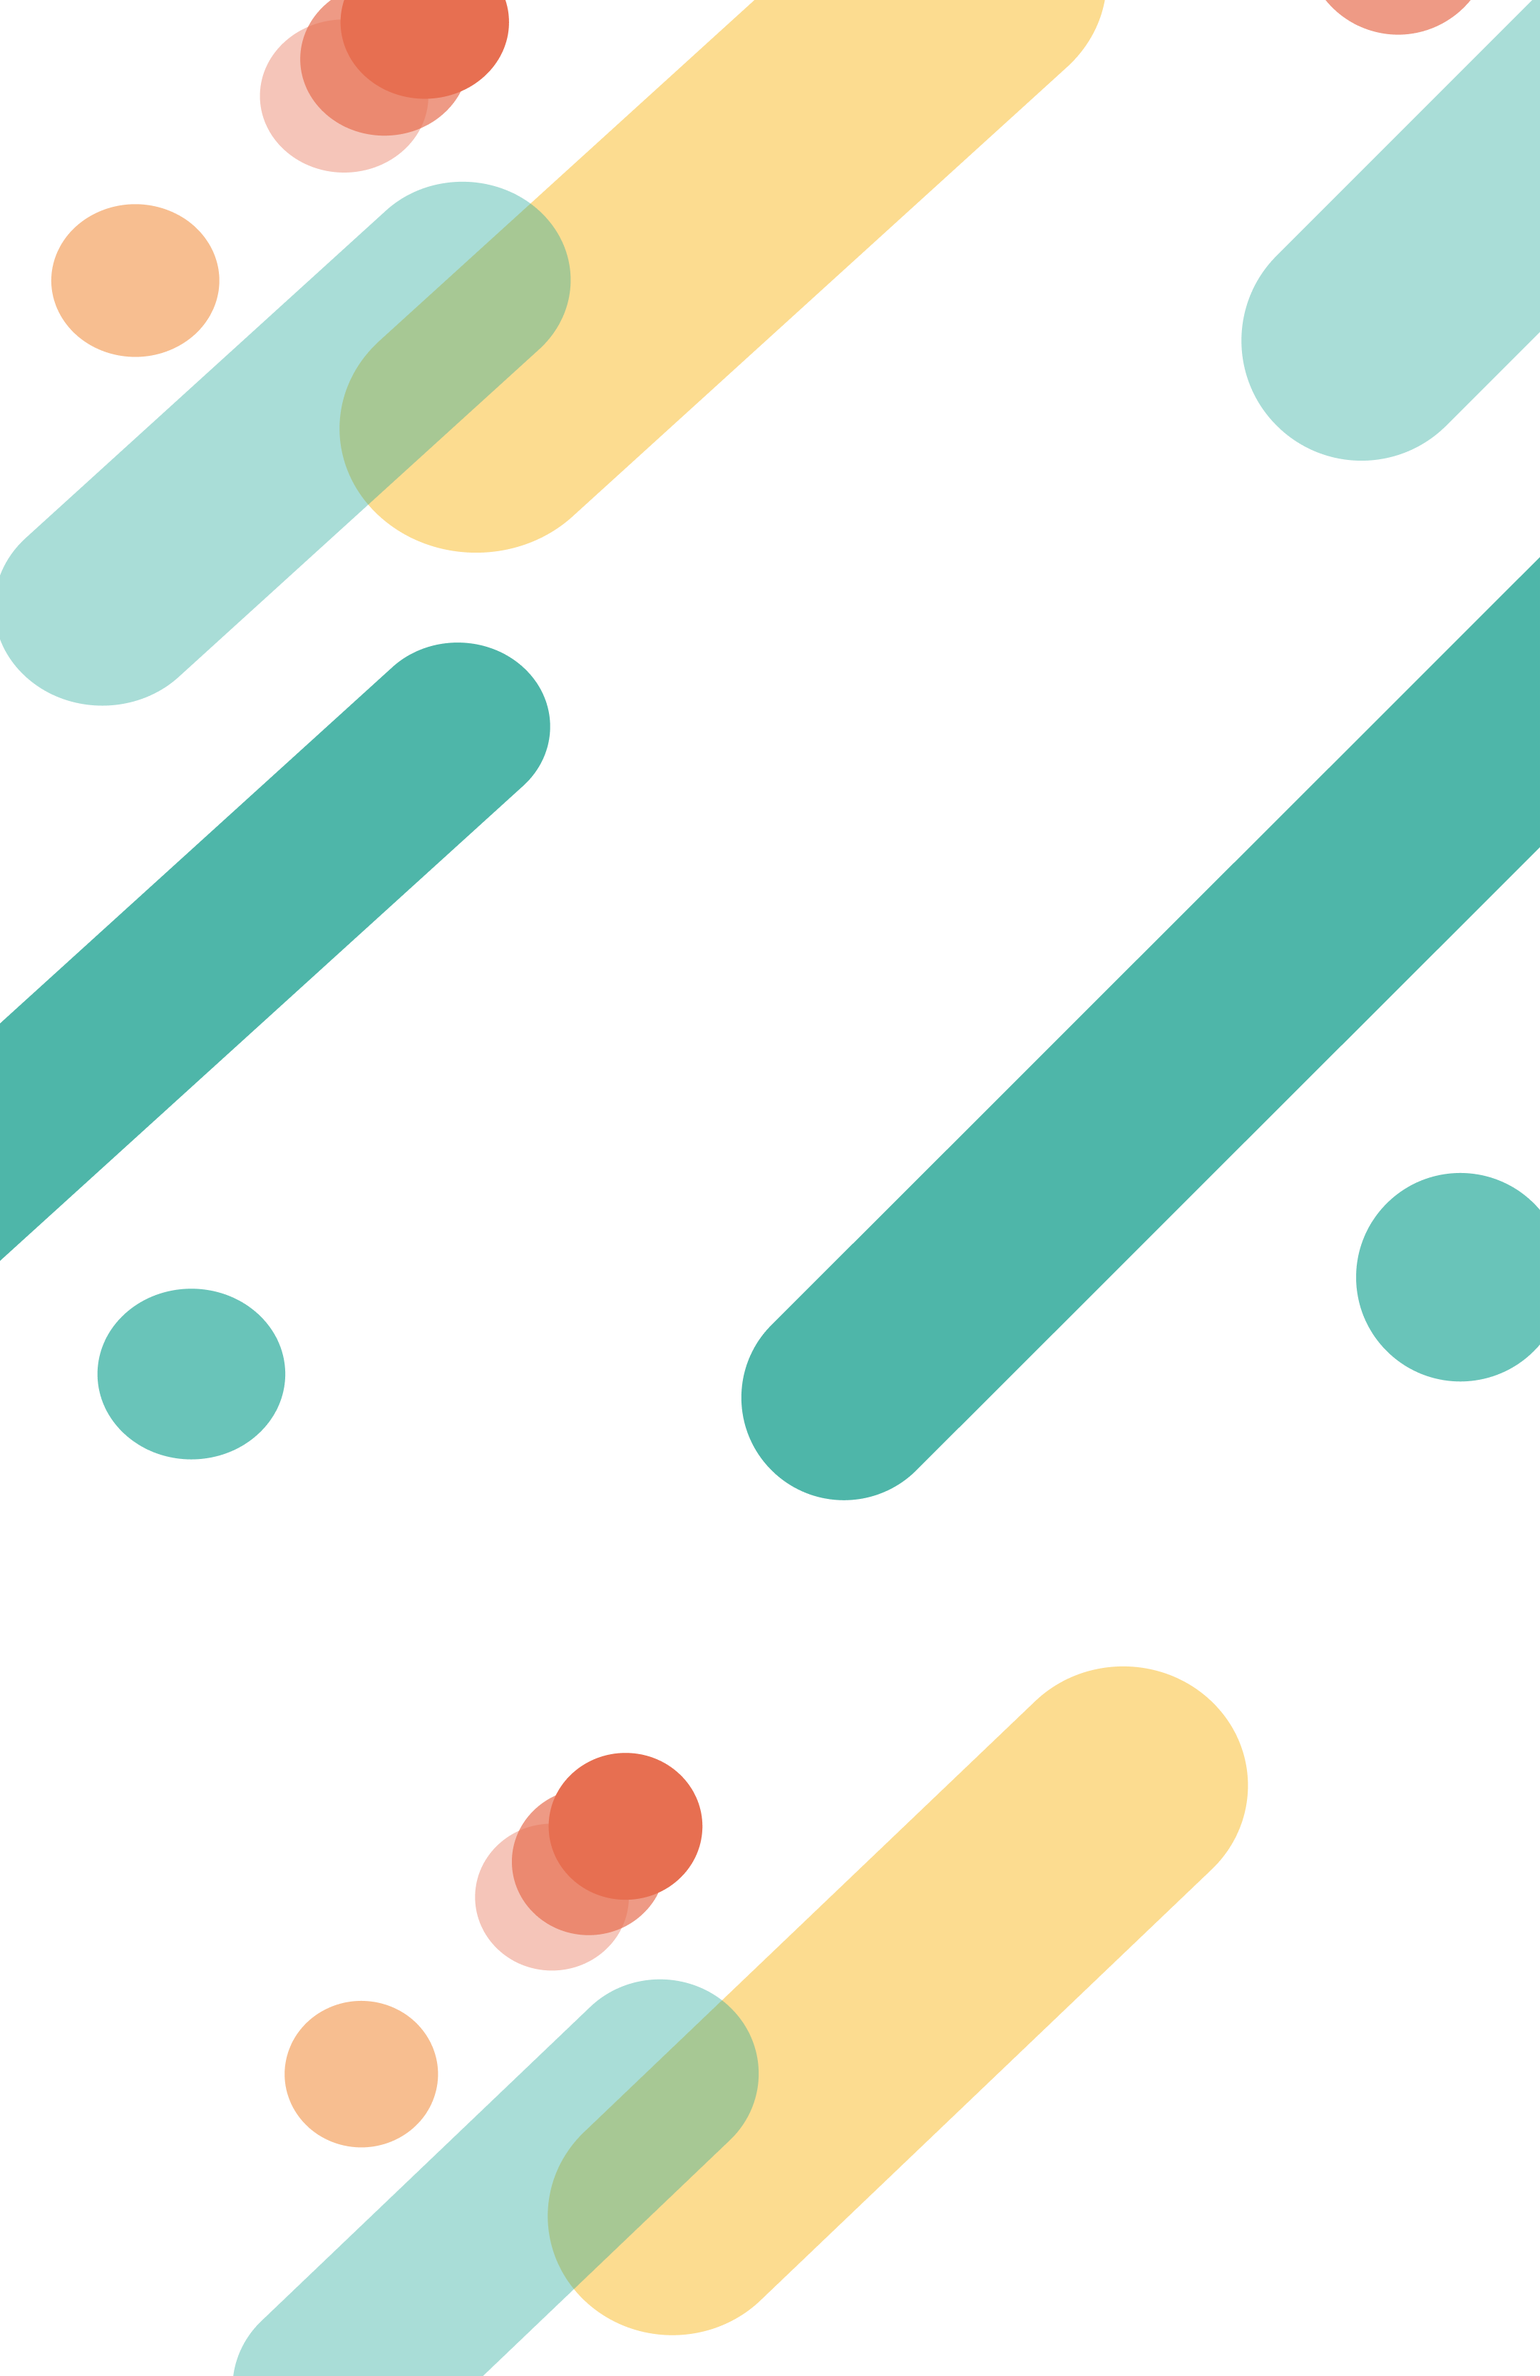
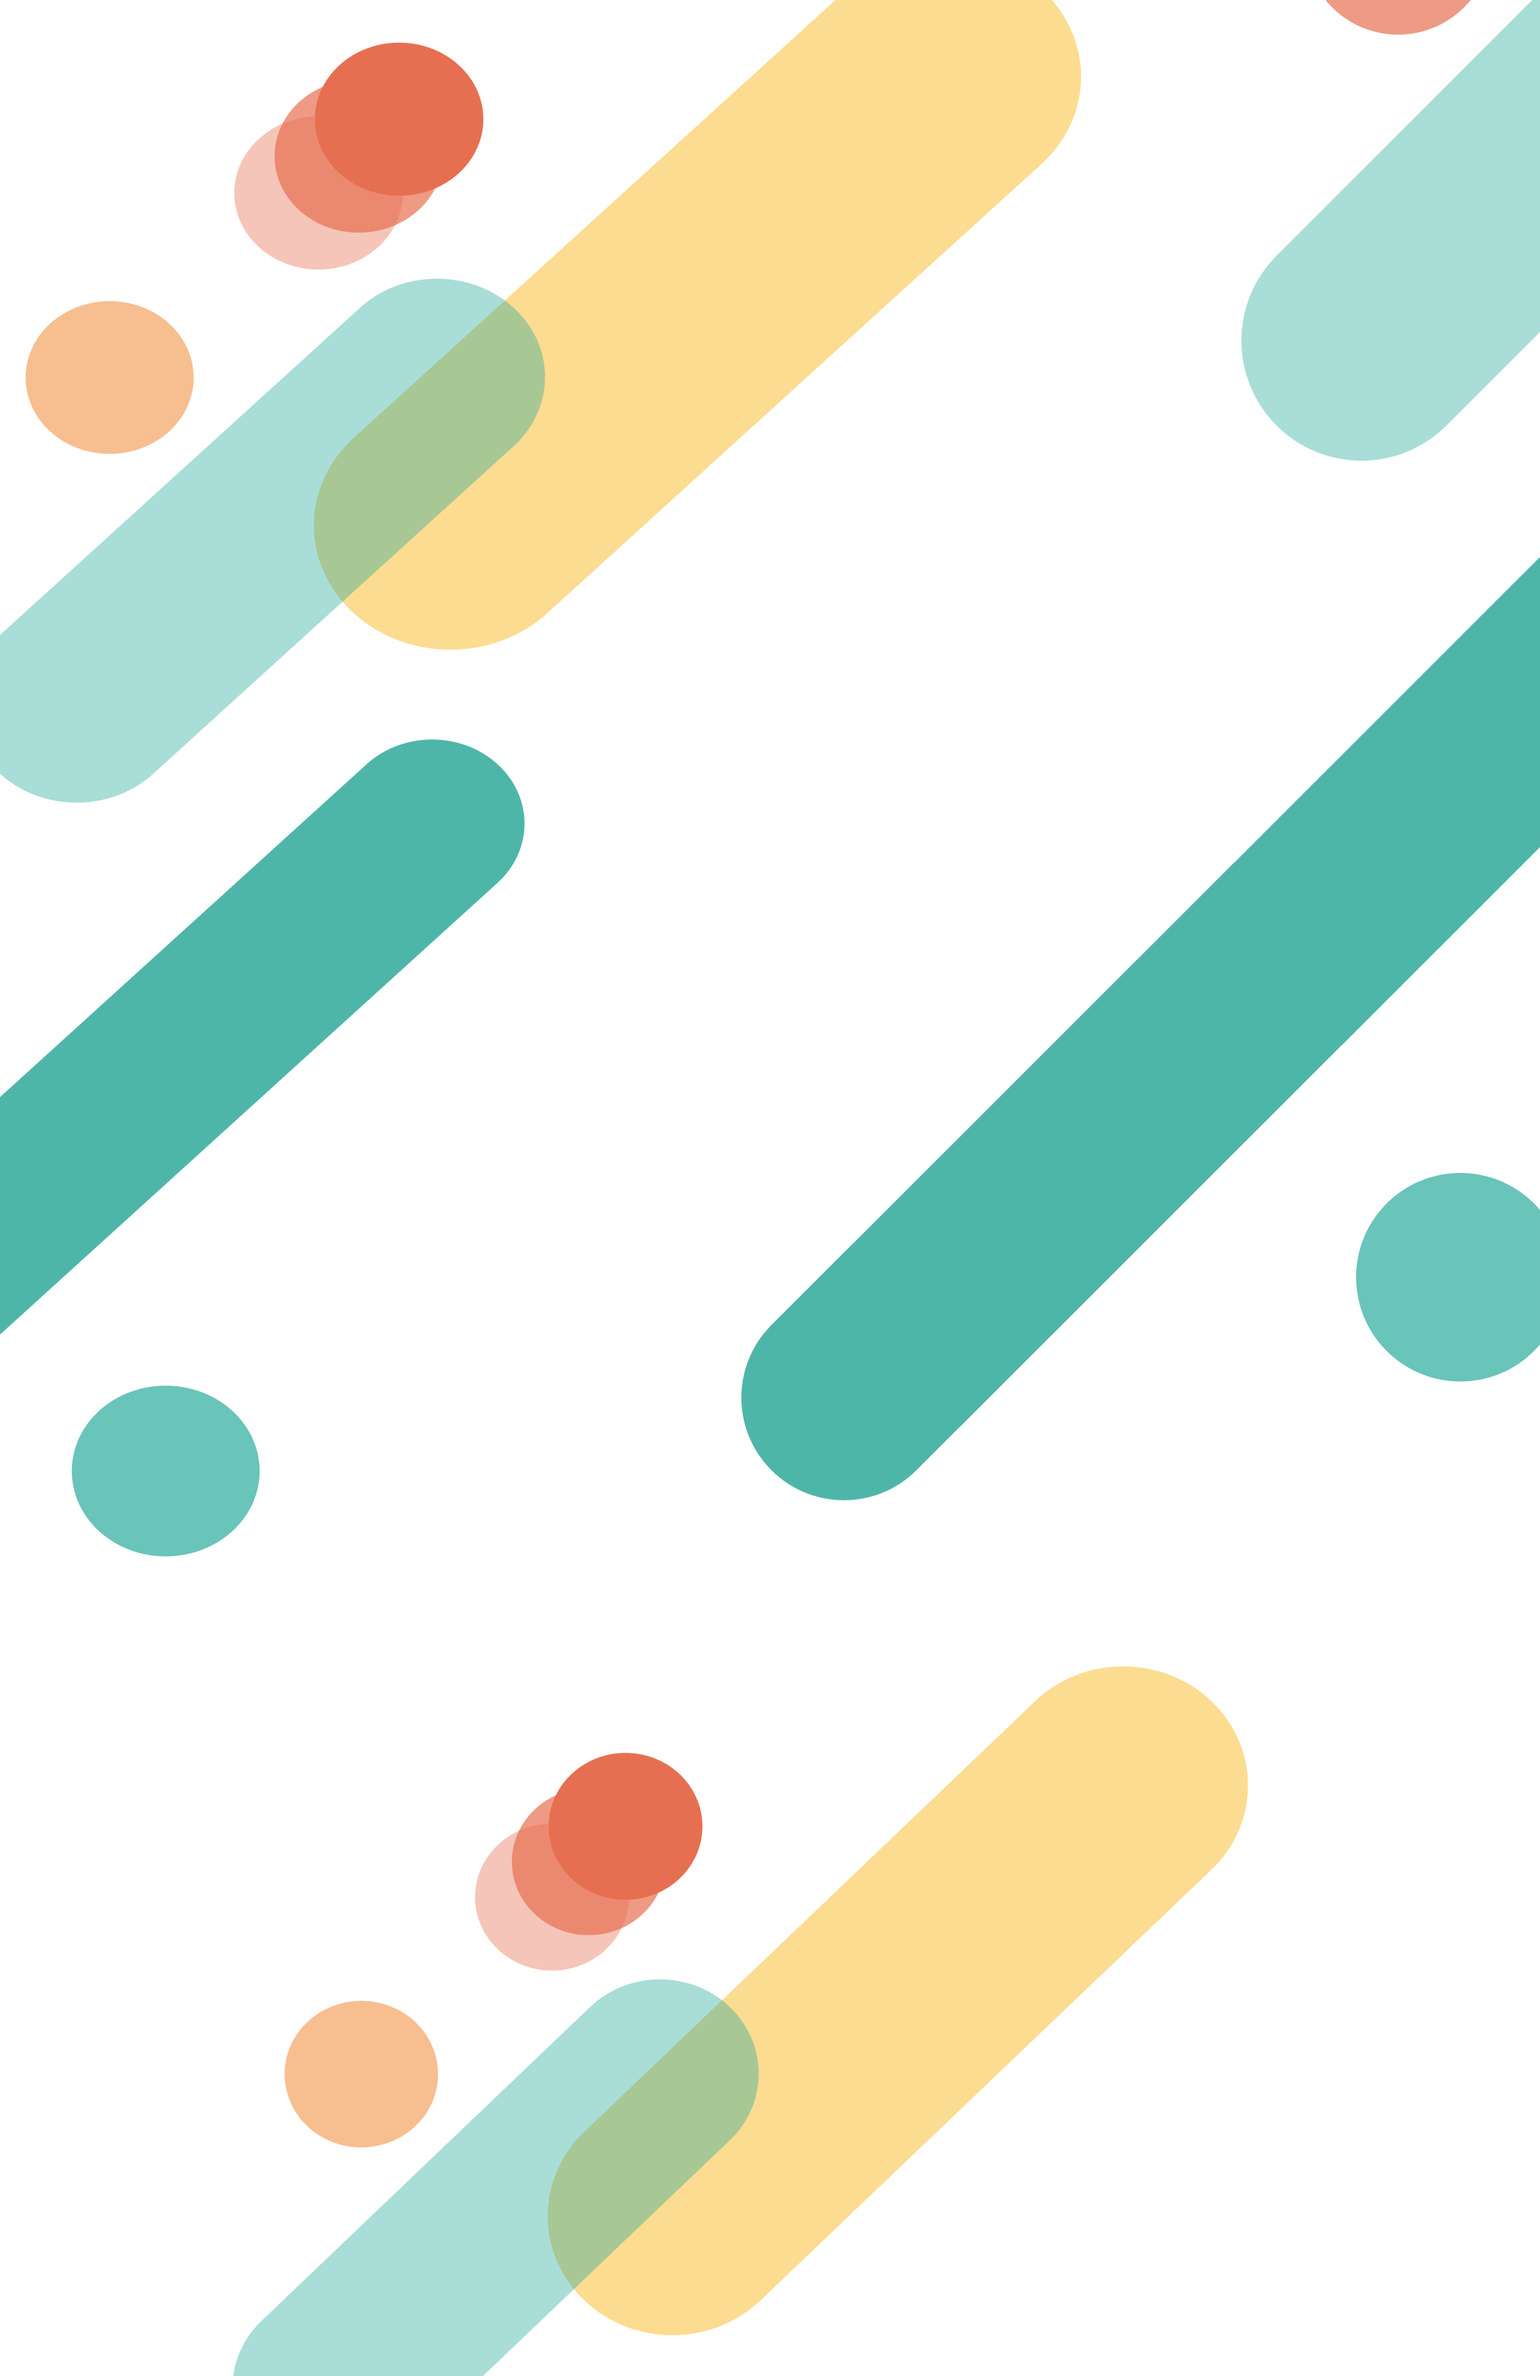
mb bg updated

Changed region(s): [[0.0, 0.0, 0.7134, 0.6555]]

diff --git a/assets/css/index.css b/assets/css/index.css
@@ -330,13 +330,13 @@ hr {
   .price-bg {
     background-image: url(../images/new/MB\ Frame\ 14.png);
     background-repeat: no-repeat;
-    background-attachment: fixed;
+    background-attachment: initial;
     background-size: cover;
   }
 
   .faq-bg {
     background-image: url(../images/new/MB\ Frame\ 13.png);
-    background-attachment: fixed;
+    background-attachment: initial;
     background-repeat: no-repeat;
     background-size: cover;
   }
